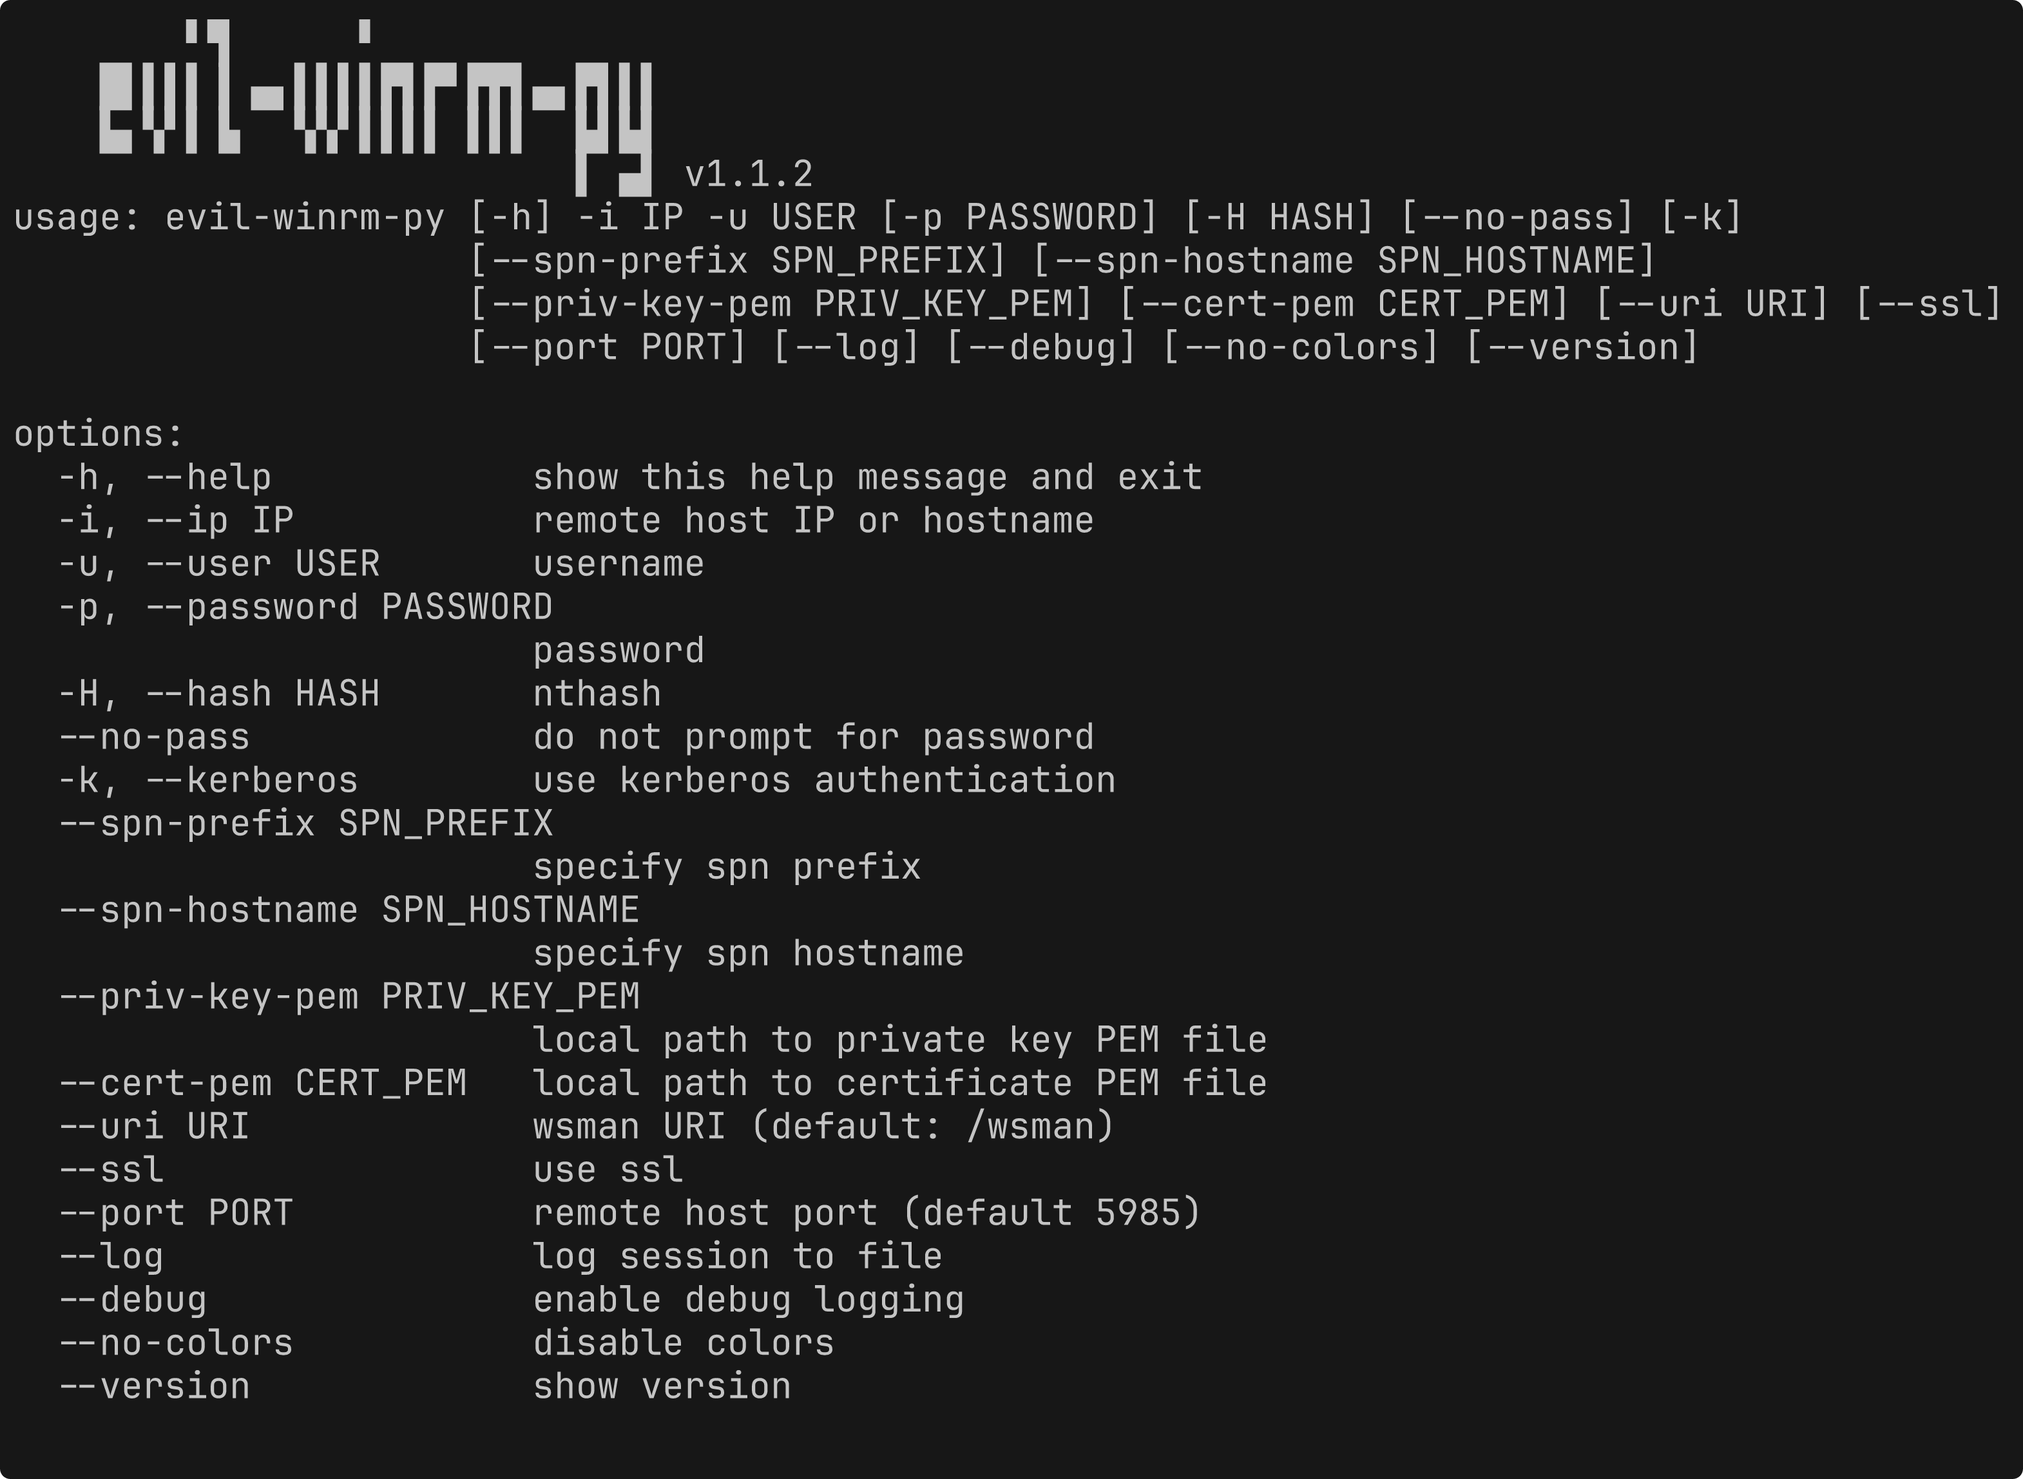
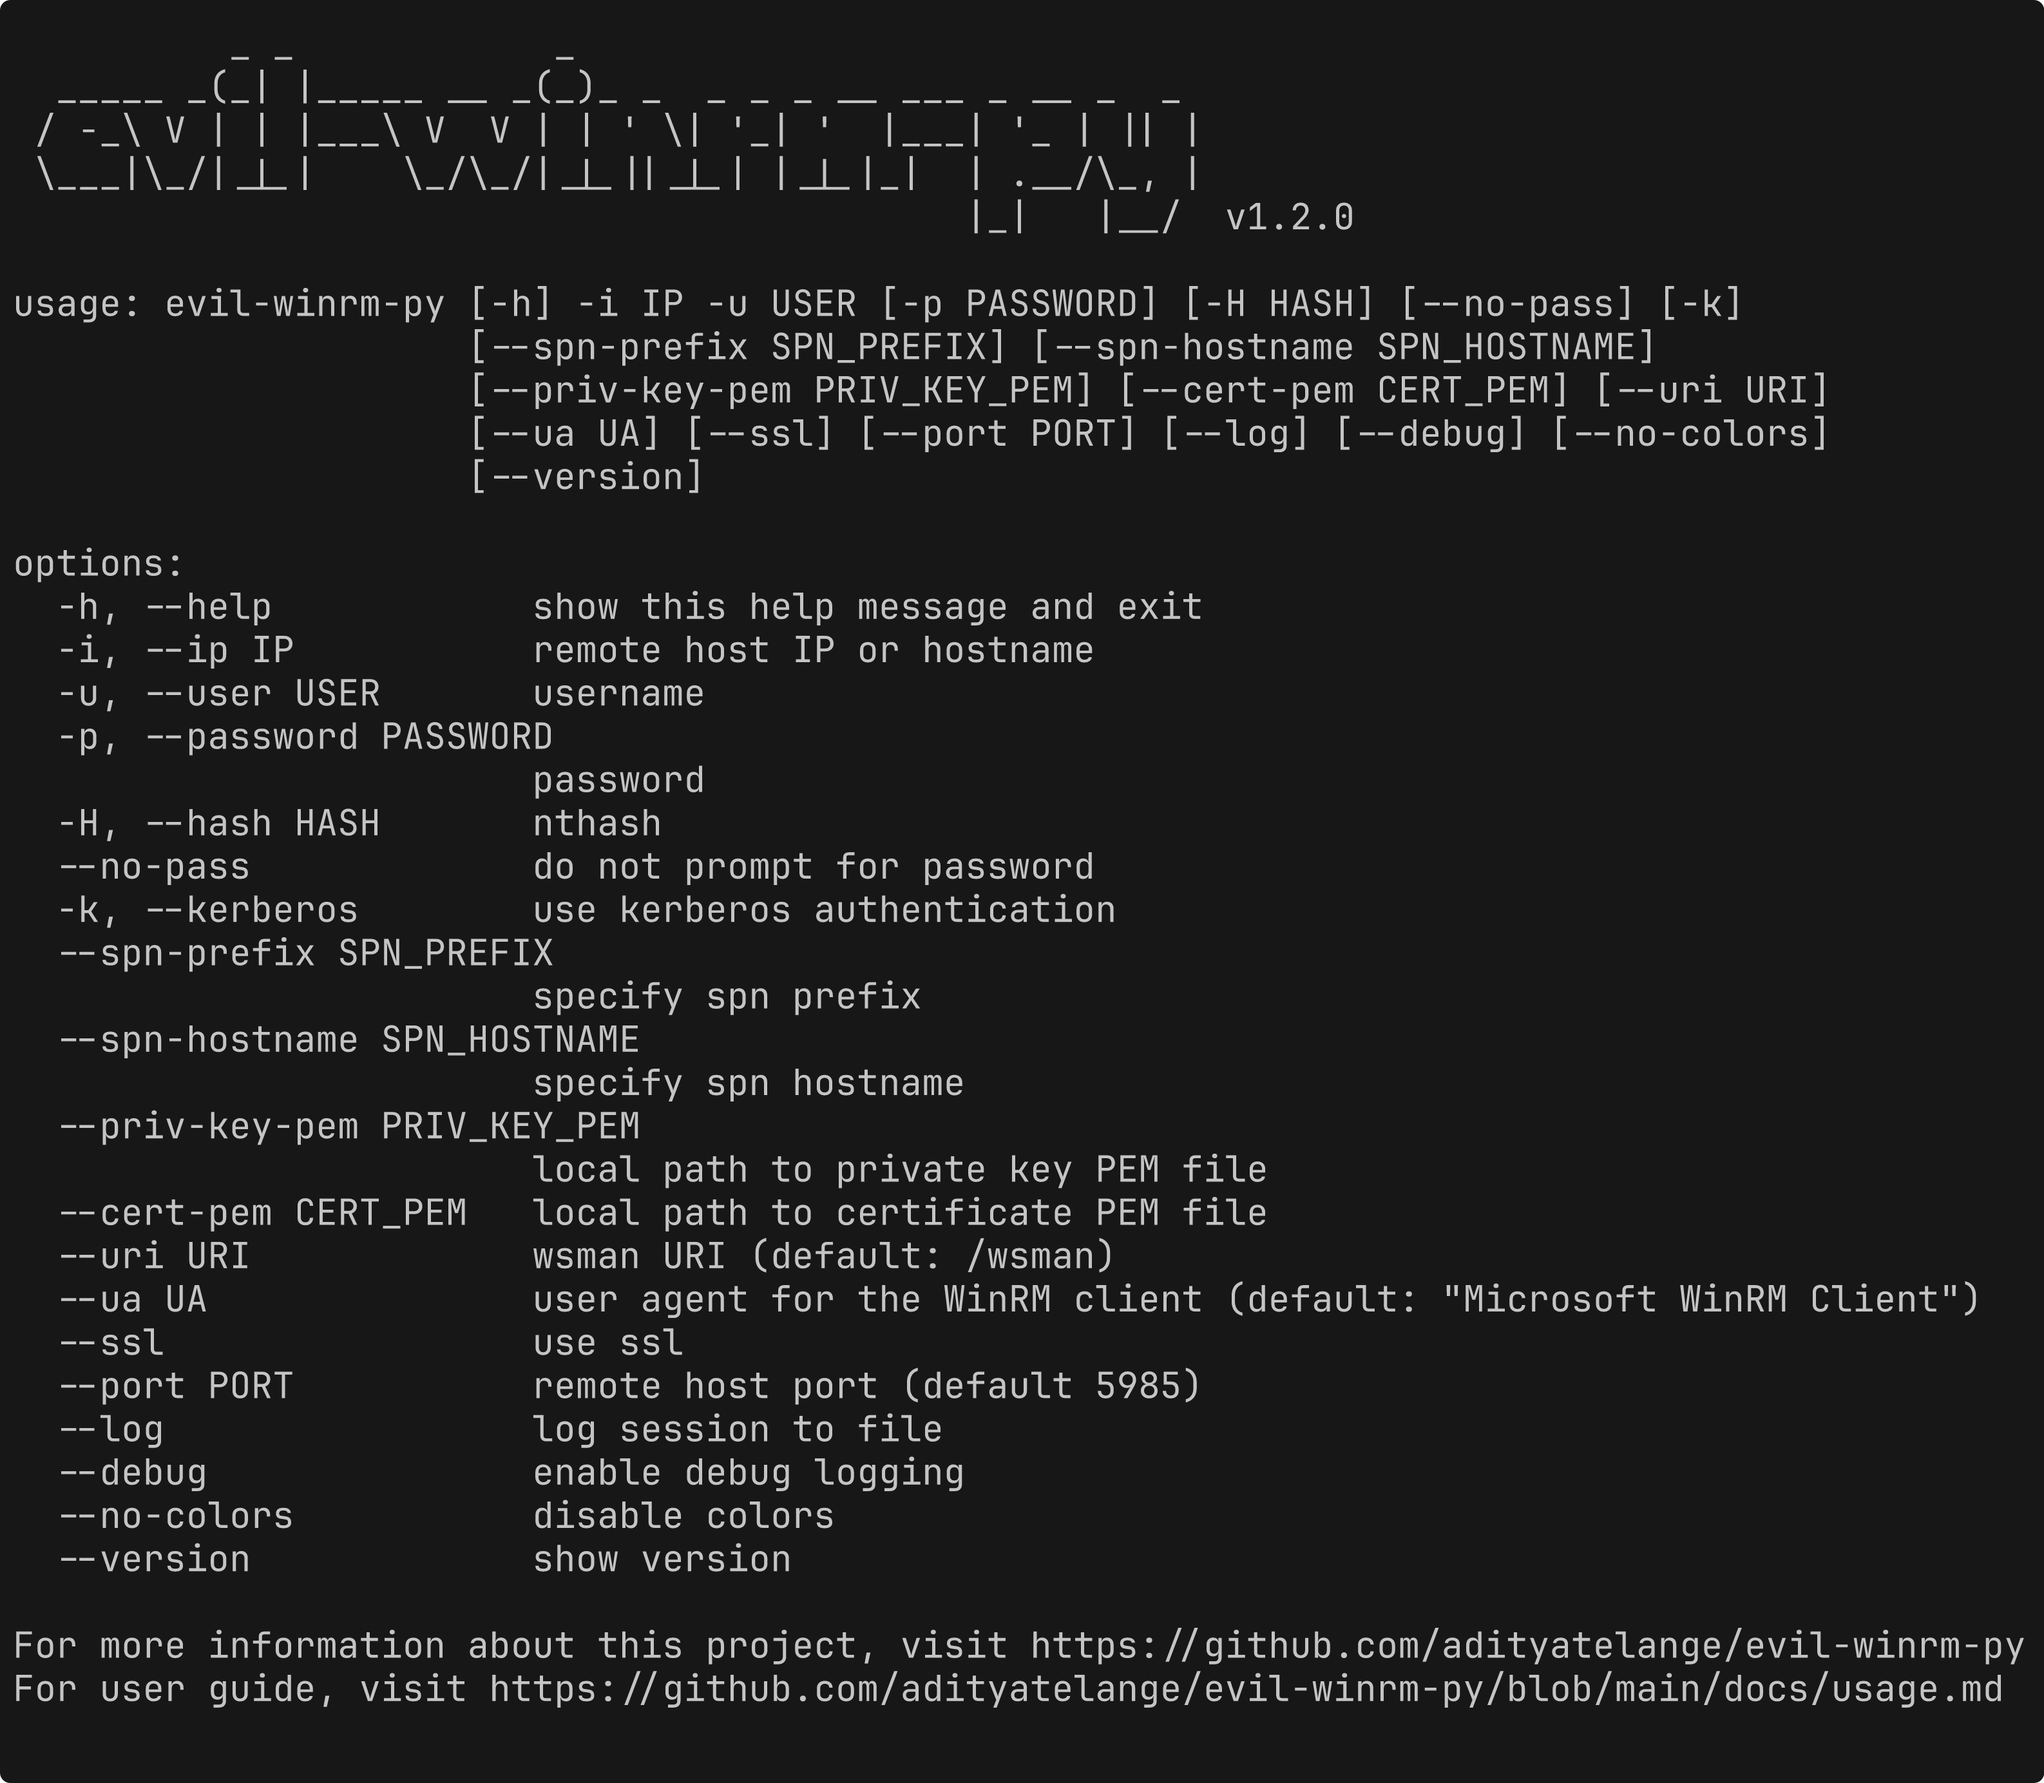
Bump version to 1.2.0

diff --git a/evil_winrm_py/__init__.py b/evil_winrm_py/__init__.py
@@ -1,1 +1,1 @@
-__version__ = "1.1.2"
+__version__ = "1.2.0"

diff --git a/README.md b/README.md
@@ -6,7 +6,7 @@
 
 `evil-winrm-py` is a python-based tool for executing commands on remote Windows machines using the WinRM (Windows Remote Management) protocol. It provides an interactive shell with enhanced features like file upload/download, command history, and colorized output. It supports various authentication methods including NTLM, Pass-the-Hash, Certificate, and Kerberos.
 
-![](https://raw.githubusercontent.com/adityatelange/evil-winrm-py/refs/tags/v1.1.2/assets/terminal.png)
+![](https://raw.githubusercontent.com/adityatelange/evil-winrm-py/refs/tags/v1.2.0/assets/terminal.png)
 
 > [!NOTE]
 > This tool is designed strictly for educational, ethical use, and authorized penetration testing. Always ensure you have explicit authorization before accessing any system. Unauthorized access or misuse of this tool is both illegal and unethical.
@@ -54,6 +54,8 @@ sudo apt install gcc python3-dev libkrb5-dev krb5-pkinit
 ```bash
 pip install evil-winrm-py
 pip install evil-winrm-py[kerberos] # for kerberos support on Linux
+
+# Note: building gssapi and krb5 packages may take some time, so be patient.
 ```
 
 or if you want to install with latest commit from the main branch you can do so by cloning the repository and installing it with `pip`/`pipx`/`uv`:
@@ -83,16 +85,17 @@ Details on how to use `evil-winrm-py` can be found in the [Usage Guide](https://
 ```bash
 usage: evil-winrm-py [-h] -i IP -u USER [-p PASSWORD] [-H HASH] [--no-pass] [-k]
                      [--spn-prefix SPN_PREFIX] [--spn-hostname SPN_HOSTNAME]
-                     [--priv-key-pem PRIV_KEY_PEM] [--cert-pem CERT_PEM] [--uri URI] [--ssl]
-                     [--port PORT] [--log] [--debug] [--no-colors] [--version]
+                     [--priv-key-pem PRIV_KEY_PEM] [--cert-pem CERT_PEM] [--uri URI]
+                     [--ua UA] [--ssl] [--port PORT] [--log] [--debug] [--no-colors]
+                     [--version]
 
 options:
   -h, --help            show this help message and exit
-  -i IP, --ip IP        remote host IP or hostname
-  -u USER, --user USER  username
-  -p PASSWORD, --password PASSWORD
+  -i, --ip IP           remote host IP or hostname
+  -u, --user USER       username
+  -p, --password PASSWORD
                         password
-  -H HASH, --hash HASH  nthash
+  -H, --hash HASH       nthash
   --no-pass             do not prompt for password
   -k, --kerberos        use kerberos authentication
   --spn-prefix SPN_PREFIX
@@ -103,12 +106,16 @@ options:
                         local path to private key PEM file
   --cert-pem CERT_PEM   local path to certificate PEM file
   --uri URI             wsman URI (default: /wsman)
+  --ua UA               user agent for the WinRM client (default: "Microsoft WinRM Client")
   --ssl                 use ssl
   --port PORT           remote host port (default 5985)
   --log                 log session to file
   --debug               enable debug logging
   --no-colors           disable colors
   --version             show version
+
+For more information about this project, visit https://github.com/adityatelange/evil-winrm-py
+For user guide, visit https://github.com/adityatelange/evil-winrm-py/blob/main/docs/usage.md
 ```
 
 Example:
